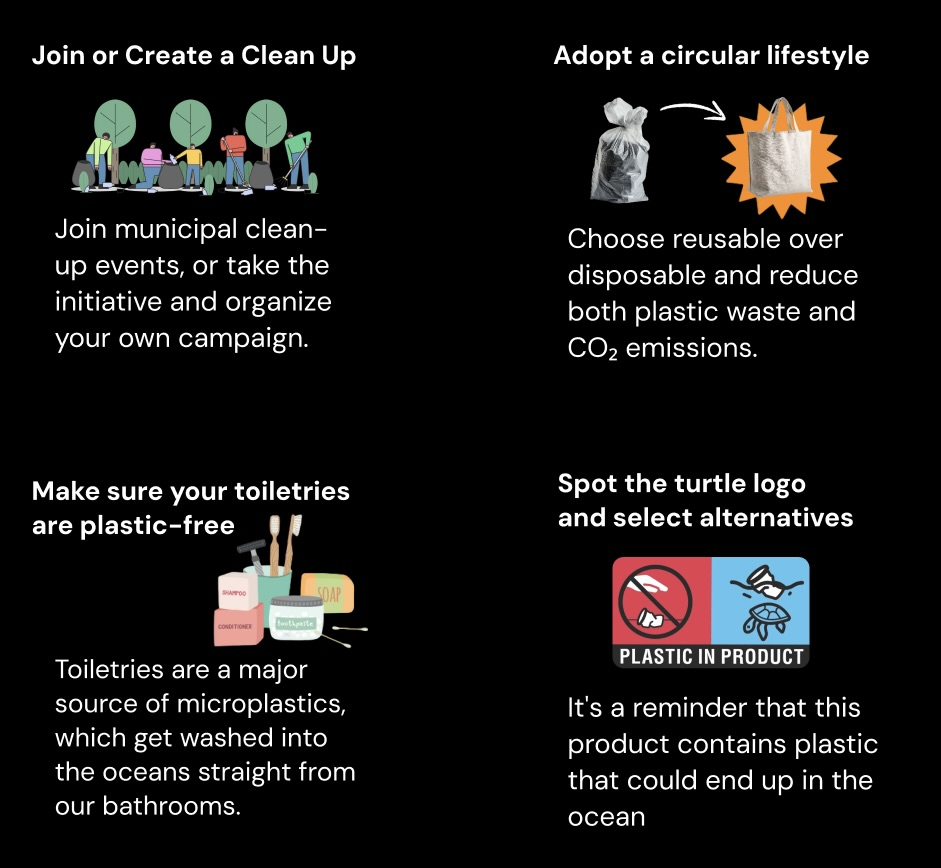
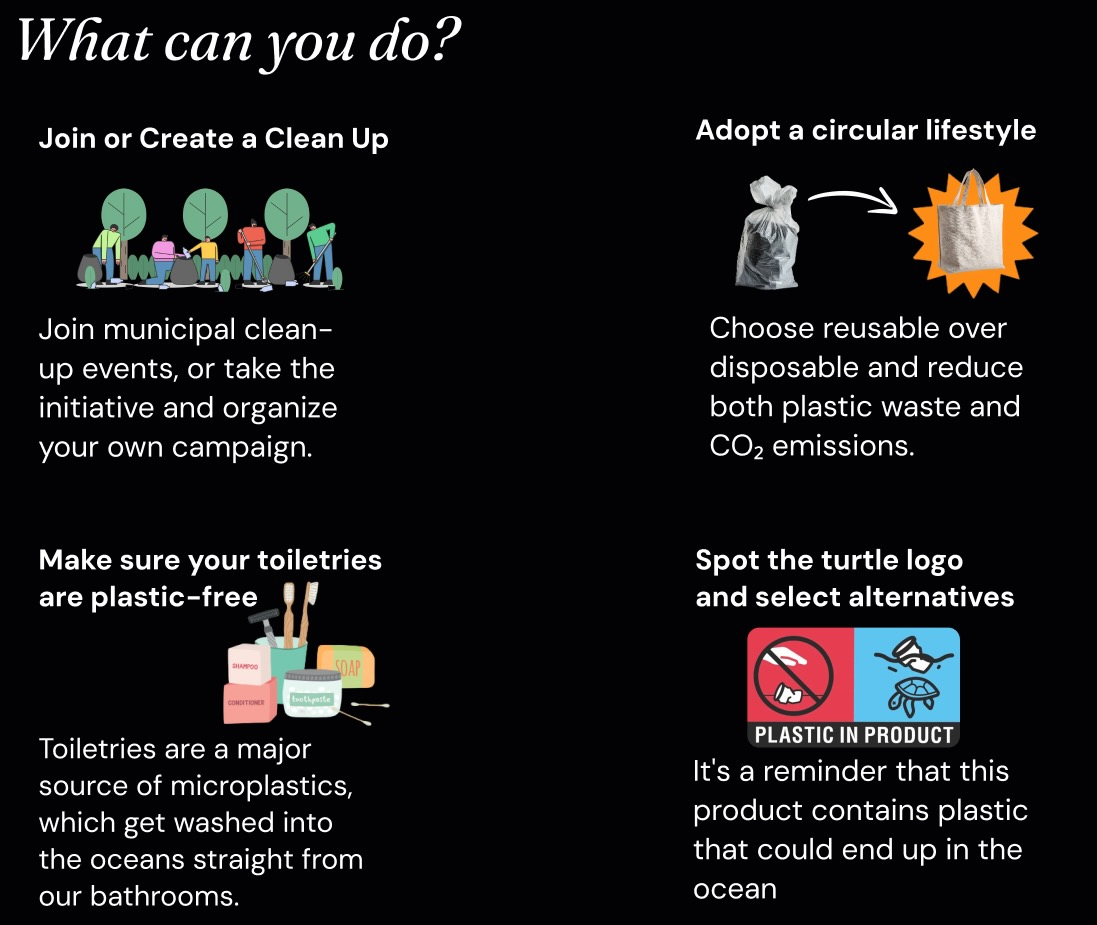
added overfishing and bottom trawling images

diff --git a/templates/take_action.html b/templates/take_action.html
@@ -37,8 +37,7 @@
           <div class="section-copy section-copy--light action-scroll__copy-inner">
             <h2 style="font-size: 2rem; padding-top: 1rem;">Plastic Pollution</h2>
             <p>Every year 19–23 million tonnes of plastic waste leaks into aquatic ecosystems. Plastic pollution can alter natural processes, reducing ecosystems' ability to adapt to climate change, directly affecting millions of people's livelihoods.</p>
-            <h3 style="font-family: 'Fraunces', Georgia, serif; font-style: italic; font-weight: 400; font-size: 1.3rem;">What can you do?</h3>
-            <img src="{{ url_for('static', filename='img/TAplasticpolution.jpeg') }}" alt="What you can do about plastic pollution" style="width: 100%; max-width: 490px; mix-blend-mode: lighten; display: block; margin: 0 auto;">
+            <img src="{{ url_for('static', filename='img/TAplasticpolution.jpeg') }}" alt="What you can do about plastic pollution" style="width: 100%; max-width: 570px; mix-blend-mode: lighten; display: block; margin: 0 auto;">
           </div>
         </div>
         <div class="action-scroll__visual">
@@ -64,9 +63,11 @@
       <article class="action-scroll__panel" data-action-panel>
         <div class="action-scroll__copy">
           <div class="section-copy section-copy--light action-scroll__copy-inner">
-            <p class="eyebrow">Problem 3: Pollution</p>
-            <h2>Stop waste before it reaches the water.</h2>
-            <p>Support deposit systems, refill habits, storm-drain cleanups, and stronger limits on chemical and plastic discharge.</p>
+            <h2 style="font-size: 2rem; padding-top: 1rem;">Bottom Trawling</h2>
+            <h3 style="font-family: 'Fraunces', Georgia, serif; font-style: italic; font-weight: 400; font-size: 1.3rem;">What is it?</h3>
+            <p>Bottom trawling is the act of dragging heavy nets or metal frames along the seabed to catch fish and shellfish.</p>
+            <p>It destroys seabed habitats, reduces biodiversity, and causes high rates of <strong>bycatch</strong>, meaning catching unintended species like crustaceans, sea turtles, and fish.</p>
+            <img src="{{ url_for('static', filename='img/TAbottomtrawlling.jpeg') }}" alt="What you can do about bottom trawling" style="width: 100%; max-width: 100%; mix-blend-mode: lighten; display: block; margin: 0 auto;">
           </div>
         </div>
         <div class="action-scroll__visual">
@@ -77,9 +78,11 @@
       <article class="action-scroll__panel" data-action-panel>
         <div class="action-scroll__copy">
           <div class="section-copy section-copy--light action-scroll__copy-inner">
-            <p class="eyebrow">Problem 4: Restoration</p>
-            <h2>Make room for habitats to return.</h2>
-            <p>Help restore dunes, shellfish reefs, kelp forests, and salt marshes that protect coastlines and store carbon.</p>
+            <h2 style="font-size: 2rem; padding-top: 1rem;">Overfishing</h2>
+            <h3 style="font-family: 'Fraunces', Georgia, serif; font-style: italic; font-weight: 400; font-size: 1.3rem;">What is it?</h3>
+            <p>Overfishing happens when more fish are caught than can be replaced through natural reproduction.</p>
+            <p>It is one of the biggest issues marine ecosystems face today. This can happen either directly, or indirectly through bycatch.</p>
+            <img src="{{ url_for('static', filename='img/TAoverfishing.jpeg') }}" alt="What you can do about overfishing" style="width: 100%; max-width: 100%; mix-blend-mode: lighten; display: block; margin: 0 auto;">
           </div>
         </div>
         <div class="action-scroll__visual">
